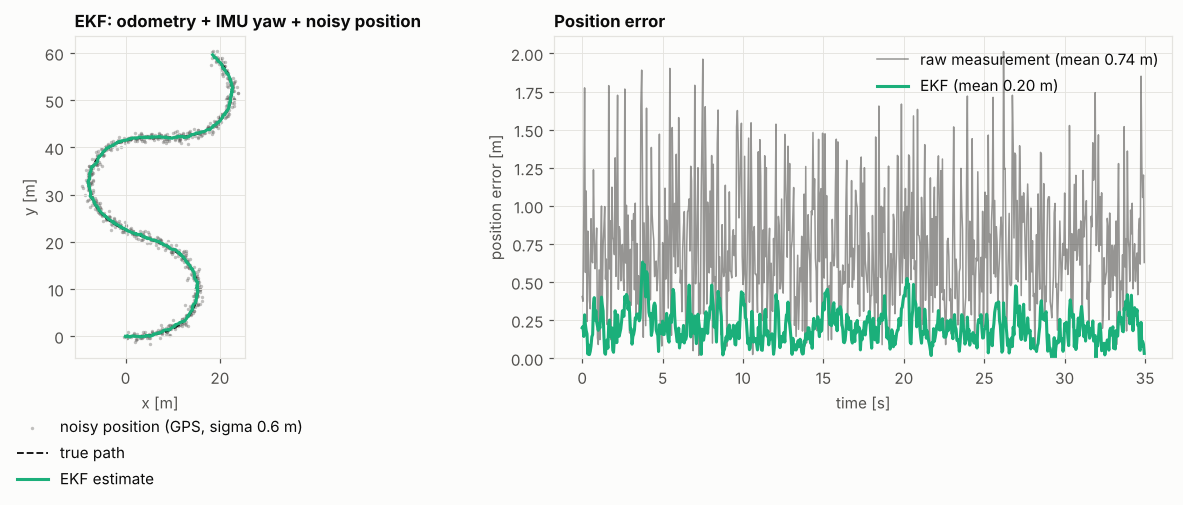
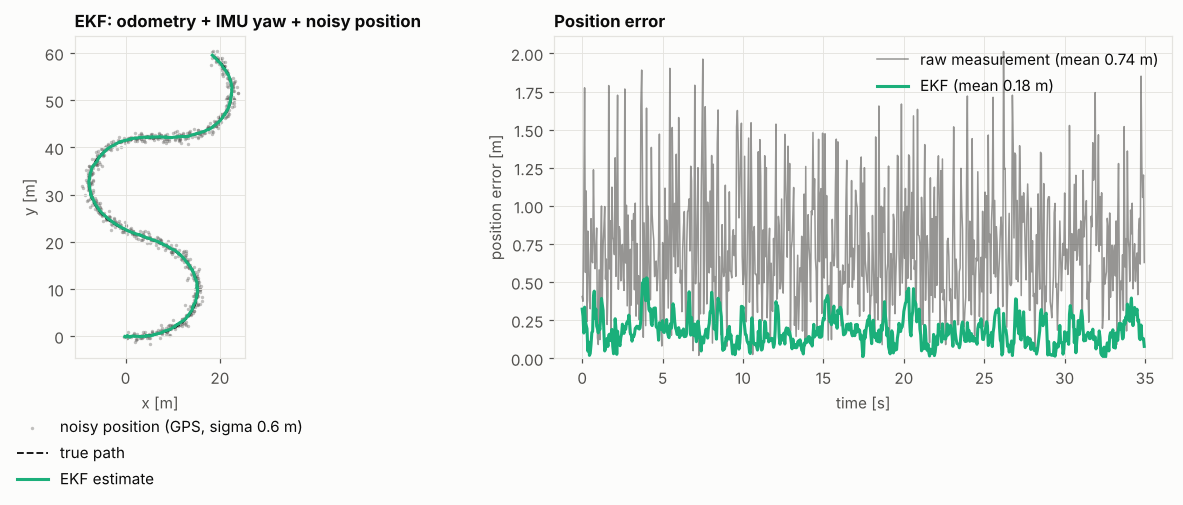
Document SLAM results on all tracks, update figures

Changed region(s): [[0.4869, 0.5347, 0.9738, 0.7129], [0.8521, 0.1485, 0.9129, 0.1782]]

diff --git a/driverless-software/README.md b/driverless-software/README.md
@@ -31,28 +31,71 @@ so now only the EKF and the mapping work in the map frame.
 ### `state_estimation`: EKF
 [`ekf_node.py`](state_estimation/state_estimation/ekf_node.py)
 
-State is `[x, y, yaw, v]`. Prediction uses a unicycle model driven by wheel speed and yaw
-rate; the update uses position (GPS converted to x/y, or odometry position when there is no
-GPS) and the IMU yaw. The maths is kept in a small `EKF` class with no ROS inside, so it can
-be tested on its own.
+State is `[x, y, yaw, v]`. Prediction uses a unicycle model driven by wheel speed, yaw rate
+and the slip angle (from the body-frame `vx, vy` of the odometry, the car does not move
+exactly where it points in a corner). Updates: GPS position (converted from lat/lon, each fix
+used once) and IMU yaw. Without GPS it dead-reckons; the integrated odometry *position* is not
+used by default because it drifts without limit. The EKF integrates over the real elapsed time
+between timer calls and publishes its covariance, which the mapping node uses. The maths is in
+a small `EKF` class with no ROS inside, so it can be tested on its own.
 
 ![EKF estimate](docs/media/ekf_estimate.png)
 
-With position noise of 0.6 m (sigma) the filter brings the mean position error from
-0.74 m down to 0.20 m.
-
-### `slam`: cone mapping and loop closure
+### `slam`: cone mapping, pose correction and loop closure
 [`cone_mapping_node.py`](slam/slam/cone_mapping_node.py)
 
-Each cone detection is moved into the map frame with the EKF pose. Then
-`LocalOutlierFactor` removes stray detections, `DBSCAN` groups detections of the same cone
-(the group mean is the cone), a `KDTree` of older cones detects loop closure, and passing the
-orange cones counts laps. The map is published on `/slam/map`.
+1. The pose is moved forward to the time of the cone message (pose and cones never arrive at
+   the same moment; at 3 m/s a 50 ms delay smears every cone by 15 cm).
+2. **Pose correction:** cones seen now are matched with well established cones in the map and
+   a small translation pulls the pose back onto the map. When the EKF is confident (GPS) the
+   correction decays back to zero, when it is dead-reckoning the correction holds the drift.
+3. Detections go into the map frame with a weight that drops with distance (camera depth noise
+   grows very fast with range), beyond 10 m they are ignored.
+4. `LocalOutlierFactor` keeps stray detections out of the clustering, `DBSCAN` groups the
+   detections of one cone, clusters too wide for one cone are split again (two cones 1 m apart
+   used to merge), and the cone is the weighted mean, published with its covariance.
+5. Only the area within 25 m of the car is re-clustered, the rest of the map is frozen, so the
+   update time does not grow with the track (23 ms on the 208-cone `rand` track).
+6. **Loop closure** when most cones seen now were first seen more than 30 s ago; **laps**
+   when the car comes back to the orange start line in the map.
+
+`/slam/map` has the cones (with covariance), `/slam/pose` the corrected pose, `/slam/reset`
+clears everything, and `plot: true` opens a live map with the EKF 95 % uncertainty ellipse.
 
 ![Cone map](docs/media/cone_map.png)
 
-To be honest about the name: this is mapping on top of the EKF pose, not full EKF-SLAM yet.
-The cone positions do not correct the car pose. That is the next step (see roadmap).
+**How it was tested** ([`slam_eval.py`](tools/offline_sim/slam_eval.py)): the car drives two laps
+with the normal stack while the real EKF node and the real mapping node get simulated sensors:
+wheel odometry with a 1 % speed error and a gyro bias (it drifts), IMU yaw, GPS with 0.5 m
+noise (or no GPS), and cone detections with the EUFS perception noise model.
+
+Two laps per track (one for `hairpins`, 980 cones), seed 0:
+
+| Track | GPS | EKF error mean / max | Map error mean | Cones within 0.5 m | Same, after removing global shift | Fake cones | Laps counted / real | Loop closure (lap time) |
+|---|---|---|---|---|---|---|---|---|
+| `small_track` | no | 0.38 / 0.63 m | 0.36 m | 64/67 | 67/67 | 0 | 1/1 | 36s (34 s) |
+| `peanut` | no | 0.28 / 0.57 m | 0.18 m | 118/118 | 118/118 | 0 | 1/1 | 33s (33 s) |
+| `bone` | no | 0.29 / 0.59 m | 0.25 m | 106/106 | 106/106 | 0 | 1/1 | 37s (36 s) |
+| `boa_constrictor` | no | 0.24 / 0.47 m | 0.18 m | 95/95 | 95/95 | 0 | 1/1 | 53s (28 s) |
+| `rectangle` | no | 0.31 / 0.58 m | 0.25 m | 92/92 | 92/92 | 0 | 1/1 | 31s (31 s) |
+| `its_a_mess` | no | 0.24 / 0.50 m | 0.15 m | 132/132 | 132/132 | 0 | 1/1 | 33s (32 s) |
+| `rand` | no | 0.71 / 1.34 m | 0.30 m | 49/208 | 95/208 | 22 | 1/1 | 135s (135 s) |
+| `small_track` | yes | 0.21 / 0.68 m | 0.12 m | 67/67 | 67/67 | 0 | 1/1 | 35s (34 s) |
+| `peanut` | yes | 0.22 / 0.74 m | 0.10 m | 118/118 | 118/118 | 0 | 1/1 | 33s (33 s) |
+| `bone` | yes | 0.21 / 0.77 m | 0.09 m | 106/106 | 106/106 | 0 | 1/1 | 36s (36 s) |
+| `boa_constrictor` | yes | 0.22 / 0.70 m | 0.11 m | 95/95 | 95/95 | 0 | 1/1 | 35s (28 s) |
+| `rectangle` | yes | 0.21 / 0.76 m | 0.12 m | 92/92 | 92/92 | 0 | 1/1 | 31s (31 s) |
+| `its_a_mess` | yes | 0.21 / 0.63 m | 0.09 m | 131/132 | 131/132 | 0 | 1/1 | 33s (32 s) |
+| `rand` | yes | 0.19 / 0.79 m | 0.12 m | 204/208 | 204/208 | 0 | 1/1 | 135s (135 s) |
+| `hairpins_increasing_difficulty` (1 lap) | yes | 0.20 / 0.74 m | 0.12 m | 980/980 | 980/980 | 0 | 0/0 | not reached (1 lap) (267 s) |
+
+What this means honestly:
+- With GPS the map is good on every track (about 10 cm mean error, no fake cones).
+- Without GPS the map **shape** is right on normal tracks, but the whole map can be shifted by
+  the odometry drift (e.g. 36 cm on `small_track`), there is nothing absolute to correct it.
+- Without GPS on a long track (`rand`, 2 laps of 135 s) the drift (up to 1.3 m) is too much for
+  this simple correction: the map gets duplicated cones. Fixing that needs real SLAM with
+  loop-closure optimisation (pose graph), which is the next item on the roadmap.
 
 ### `planning`: three planners, one in use
 All three subscribe to `/ground_truth/cones` and publish `/trajectory`.
@@ -172,7 +215,8 @@ plugin (15 m range, 120 degree field of view).
 ```bash
 pip install numpy scipy scikit-learn matplotlib pytest
 
-python3 -m pytest tests -q                       # 12 tests, about 10 s
+python3 -m pytest tests -q                       # 18 tests, about 40 s
+python3 tools/offline_sim/slam_eval.py           # EKF + mapping on 7 tracks, with and without GPS
 python3 tools/offline_sim/sim.py                 # one lap on every track
 python3 tools/offline_sim/sim.py peanut --planner rrt_planner --controller stanley
 python3 tools/offline_sim/make_figures.py        # regenerate the figures in docs/media
@@ -183,7 +227,7 @@ wrong signs and crashes on empty messages, show up here in seconds.
 
 ## Roadmap
 
-- [ ] Full EKF-SLAM: add cone positions to the filter state so the map corrects the pose
+- [ ] Pose-graph SLAM with loop-closure optimisation, so long runs without GPS stay consistent
 - [ ] Tighter tracking in hairpins: blend Stanley cross-track correction into pure pursuit
 - [ ] Wider line into hairpins (racing line that is stable from frame to frame)
 - [ ] RRT* version of the RRT planner (cost-to-come and rewiring)

diff --git a/README.md b/README.md
@@ -24,7 +24,7 @@ the car's software is split (each one is a ROS 2 package):
 | Folder | What it does |
 |---|---|
 | [`state_estimation/`](driverless-software/state_estimation) | EKF that fuses wheel odometry, IMU yaw and GPS into the car's pose |
-| [`slam/`](driverless-software/slam) | Builds the cone map from detections + EKF pose, counts laps, detects loop closure |
+| [`slam/`](driverless-software/slam) | Builds the cone map, corrects the pose against it, counts laps, detects loop closure |
 | [`planning/`](driverless-software/planning) | Three local planners: midpoint (my first one), RRT, and the Delaunay planner we use |
 | [`control/`](driverless-software/control) | Pure pursuit and Stanley steering controllers with PID speed control |
 | [`bringup/`](driverless-software/bringup) | One launch file + one params file to run the whole stack with the simulator |
